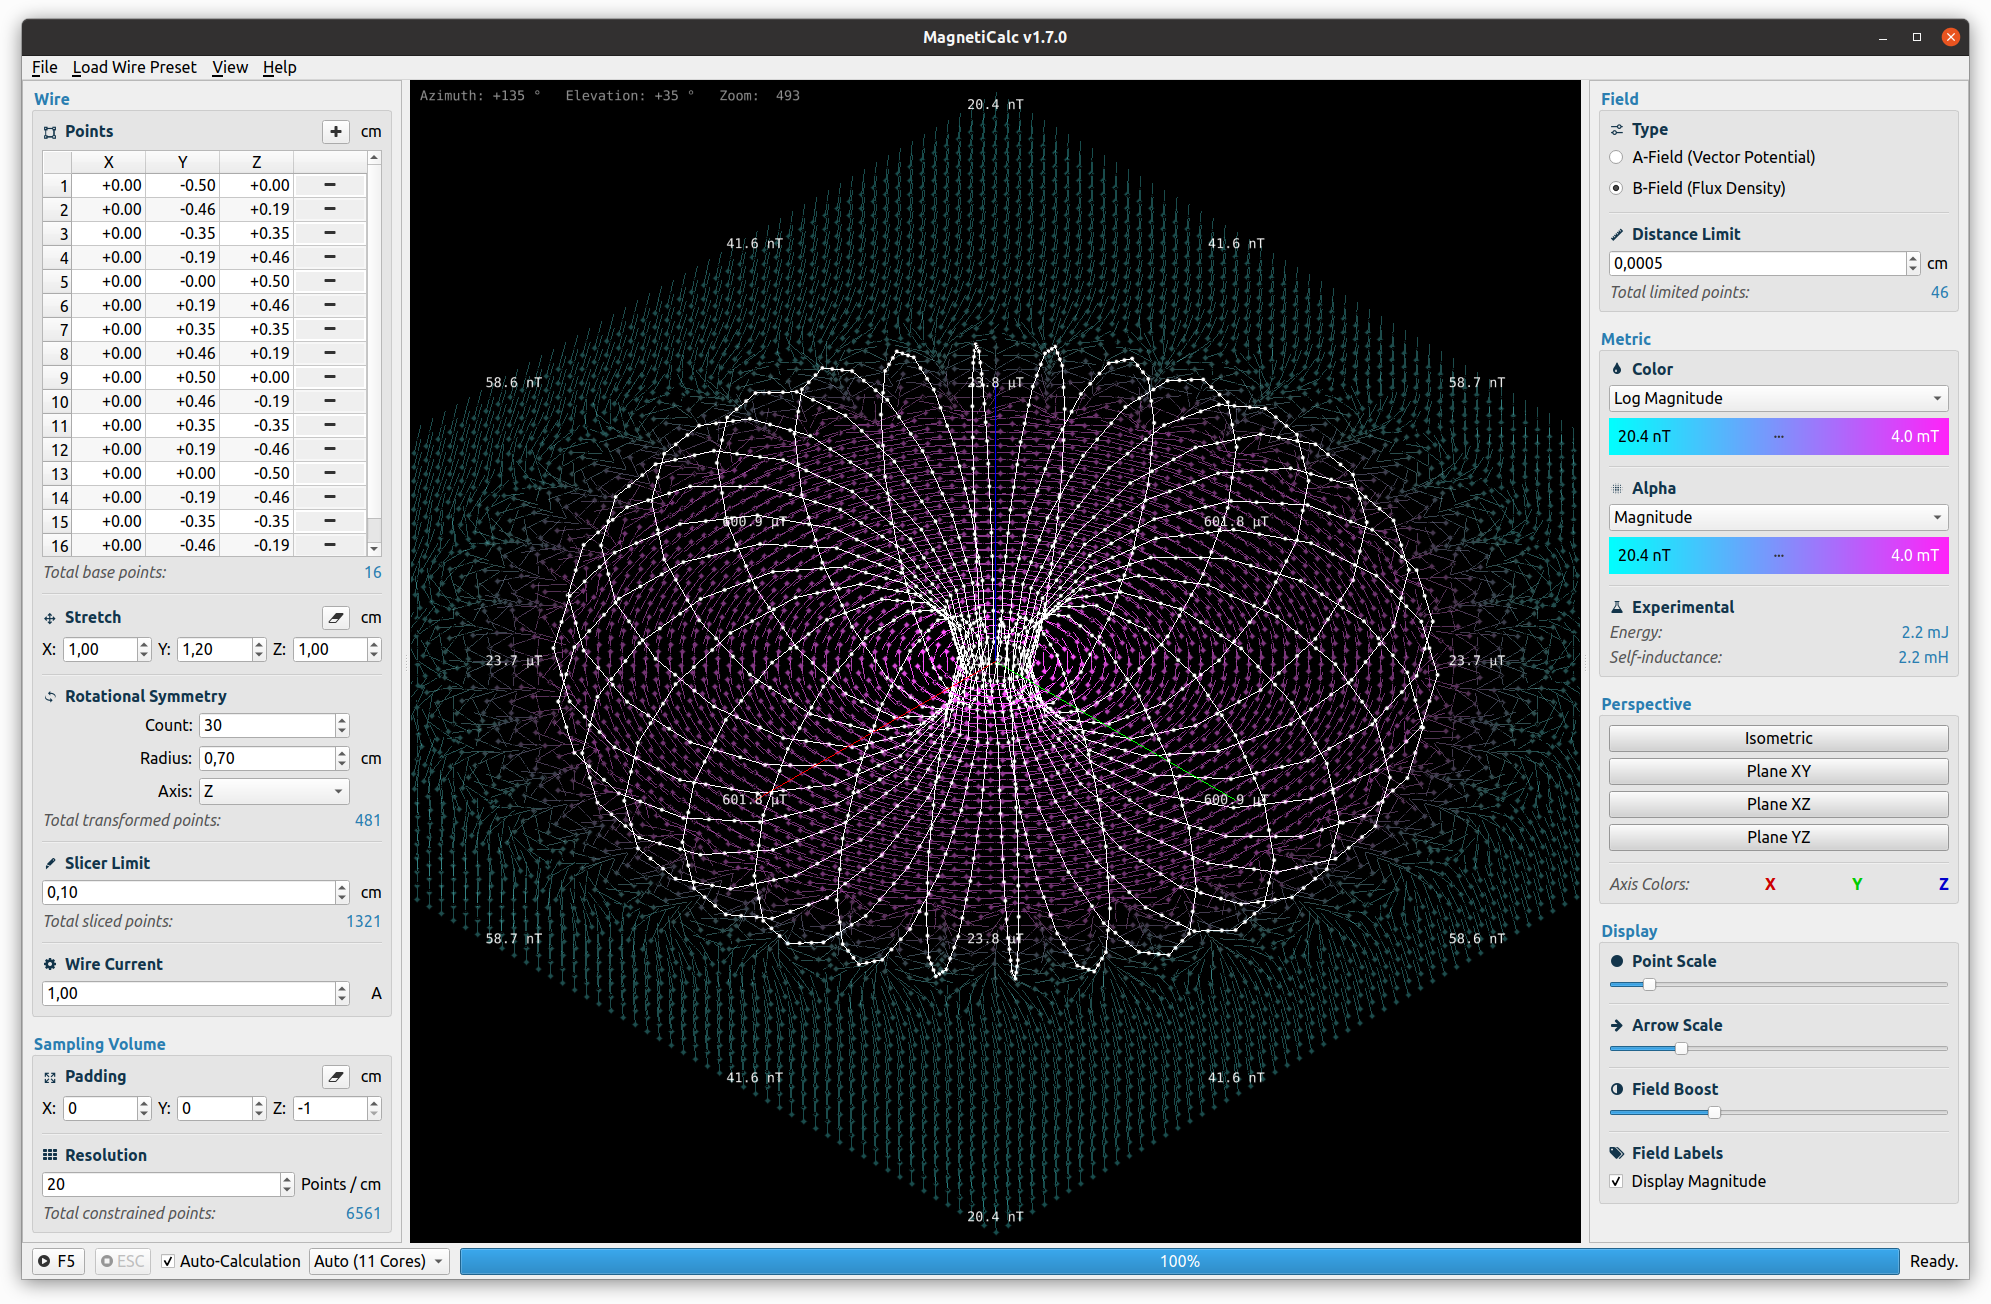
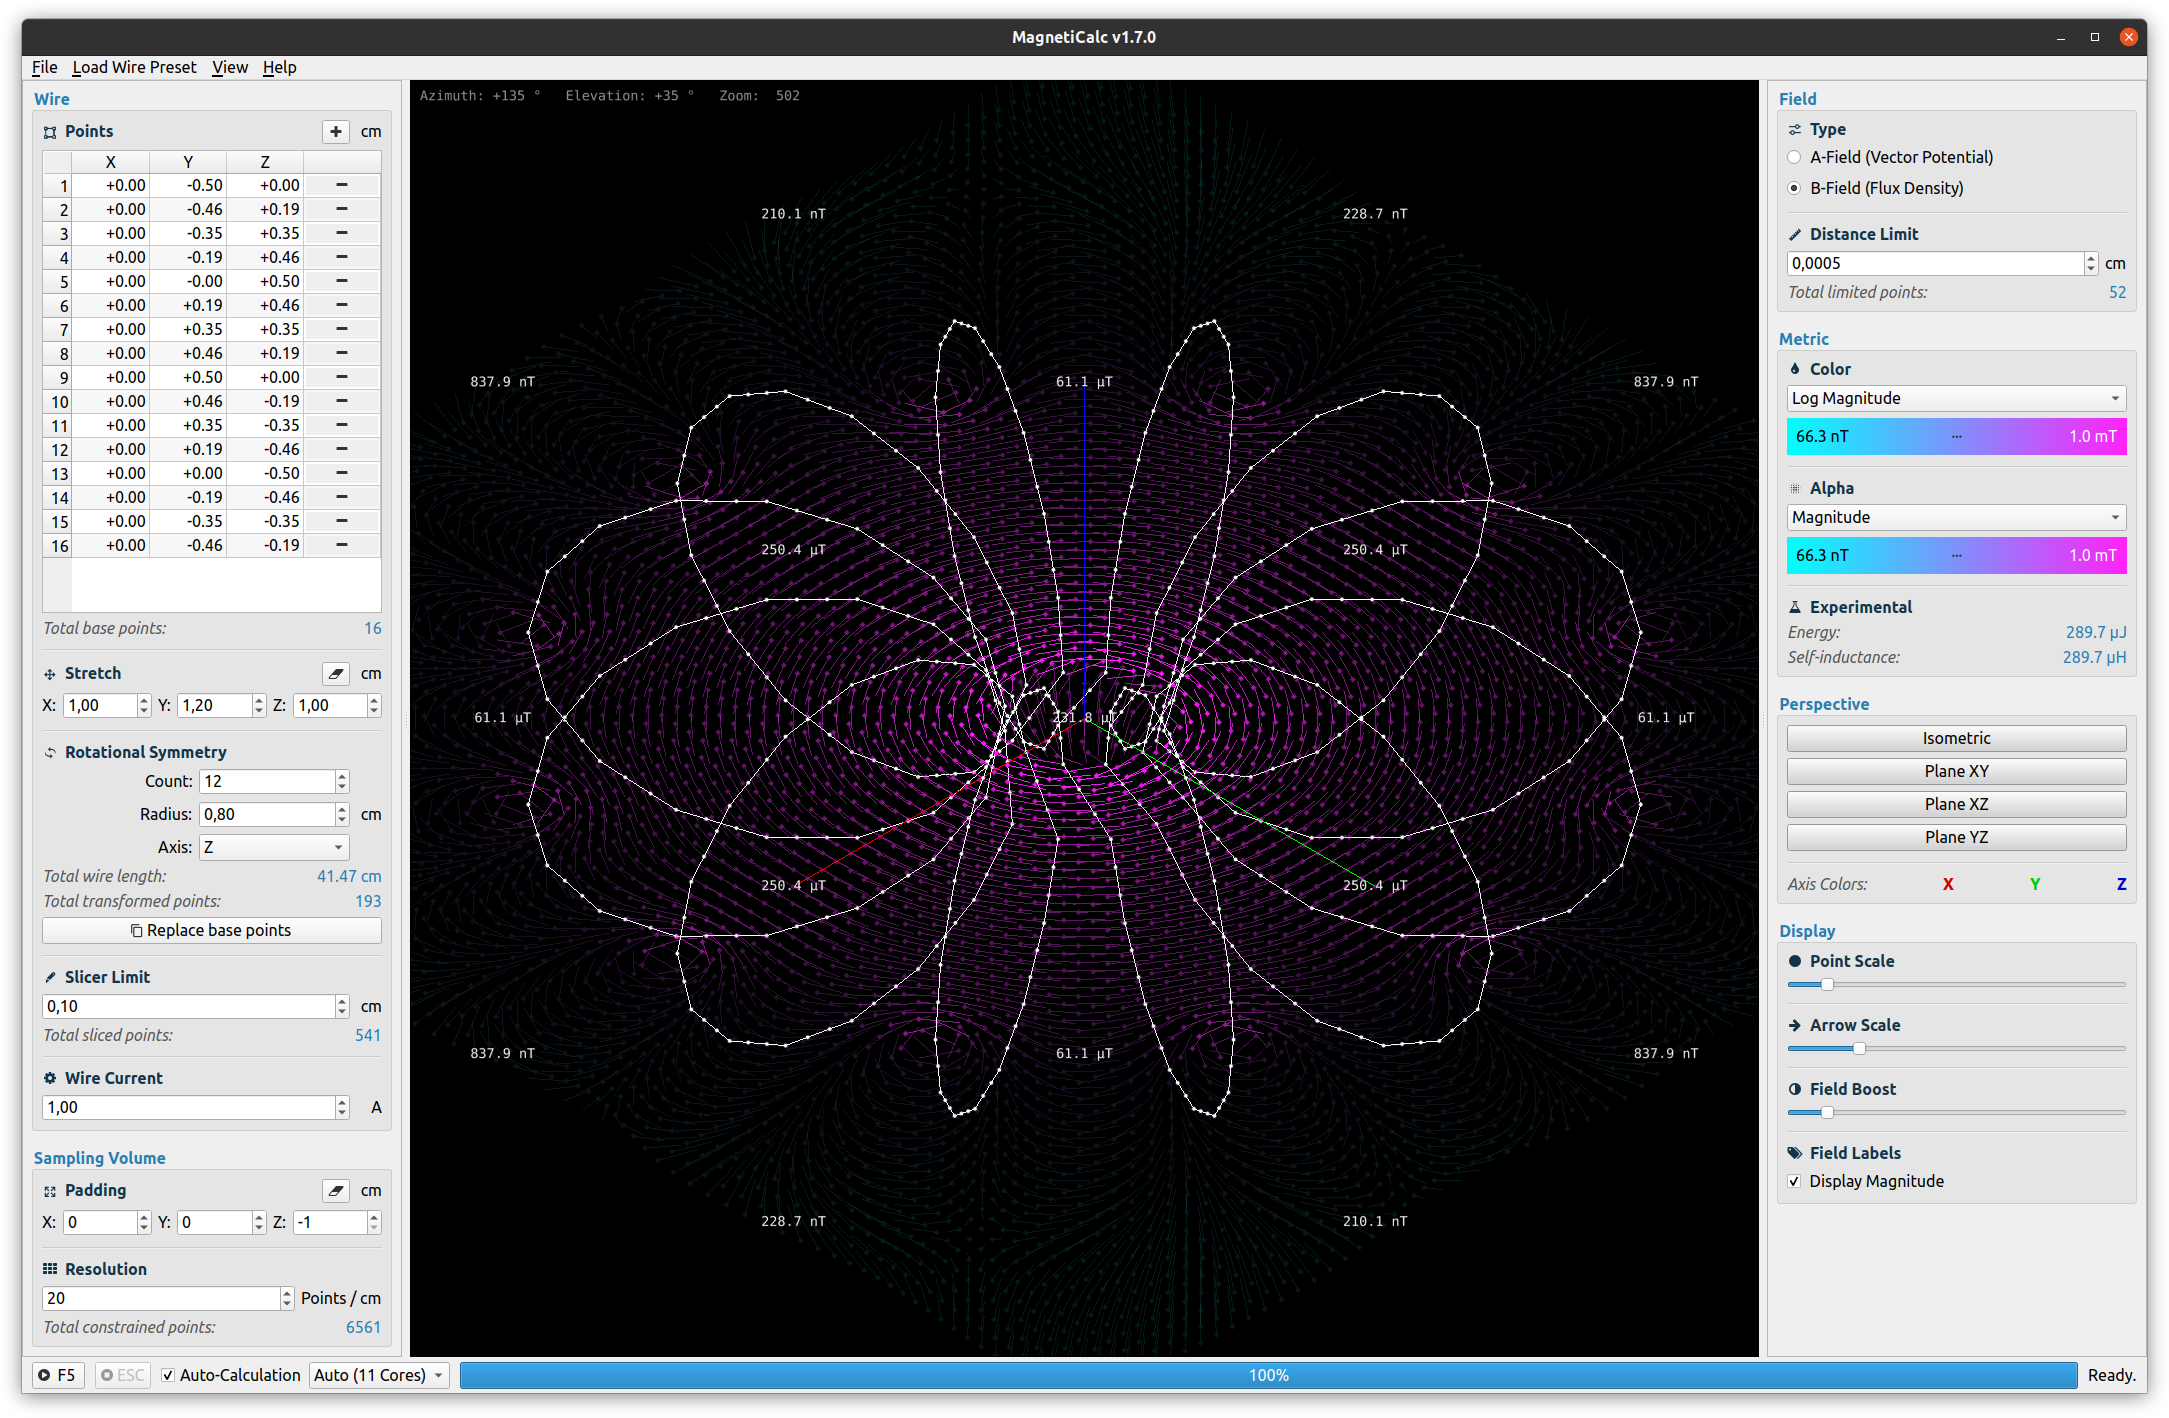
Added wire length. Added option to Replace base points.

Changed region(s): [[0.0, 0.0, 0.9965, 0.9816]]

diff --git a/magneticalc/Wire_Widget.py b/magneticalc/Wire_Widget.py
@@ -193,6 +193,24 @@ class Wire_Widget(Groupbox):
 
         self.addLayout(rotational_symmetry_layout)
 
+        total_length_layout = QHBoxLayout()
+        total_length_label_left = QLabel("Total wire length:")
+        total_length_label_left.setStyleSheet("""
+            color: #555555;
+            font-style: italic;
+        """)
+        self.total_length_label = QLabel("")
+        self.total_length_label.setStyleSheet("""
+            color: #2a7db0;
+        """)
+        self.total_length_label.setAlignment(Qt.AlignRight | Qt.AlignVCenter)
+        total_length_layout.addWidget(
+            total_length_label_left,
+            alignment=Qt.AlignVCenter
+        )
+        total_length_layout.addWidget(self.total_length_label, alignment=Qt.AlignVCenter)
+        self.addLayout(total_length_layout)
+
         rotational_symmetry_total_layout = QHBoxLayout()
         rotational_symmetry_total_label_left = QLabel("Total transformed points:")
         rotational_symmetry_total_label_left.setStyleSheet("""
@@ -210,6 +228,14 @@ class Wire_Widget(Groupbox):
         )
         rotational_symmetry_total_layout.addWidget(self.transformed_total_label, alignment=Qt.AlignVCenter)
         self.addLayout(rotational_symmetry_total_layout)
+
+        replace_base_points_button = QPushButton()
+        replace_base_points_button.setIcon(qta.icon("mdi.content-copy"))
+        replace_base_points_button.setText("Replace base points")
+        replace_base_points_button.clicked.connect(
+            lambda: self.set_wire(points=self.gui.model.wire.get_points_transformed())
+        )
+        self.addWidget(replace_base_points_button)
 
         # --------------------------------------------------------------------------------------------------------------
 
@@ -414,5 +440,7 @@ class Wire_Widget(Groupbox):
         """
         if self.gui.model.wire.is_valid():
             self.sliced_total_label.setText(str(len(self.gui.model.wire.get_points_sliced())))
+            self.total_length_label.setText(f"{self.gui.model.wire.get_length():.2f} cm")
         else:
             self.sliced_total_label.setText("N/A")
+            self.total_length_label.setText("N/A")

diff --git a/magneticalc/Wire.py b/magneticalc/Wire.py
@@ -228,8 +228,8 @@ class Wire:
         self._points_base = np.array(points)
 
         # Note: This is my playground for creating new wire presets!
-        x = False
-        if x:
+        override_base = False
+        if override_base:
             self._points_base = np.array(
                 [
                     [
@@ -253,6 +253,7 @@ class Wire:
         self._dc = dc
 
         self._points_sliced = None
+        self._length = None
 
         self._points_transformed = self._points_base.copy()
 
@@ -276,6 +277,7 @@ class Wire:
         Debug(self, ".invalidate()", color=(128, 0, 0))
 
         self._points_sliced = None
+        self._length = None
 
     # ------------------------------------------------------------------------------------------------------------------
 
@@ -338,6 +340,14 @@ class Wire:
         @return: DC value
         """
         return self._dc
+
+    def get_length(self):
+        """
+        Returns this curve's length.
+
+        @return: Length (float)
+        """
+        return self._length
 
     # ------------------------------------------------------------------------------------------------------------------
 
@@ -403,12 +413,14 @@ class Wire:
         Debug(self, ".recalculate()", color=(0, 128, 0))
 
         points_sliced = []
+        length = 0
 
         for i in range(len(self.get_points_transformed()) - 1):
 
             # Calculate direction and length of wire segment
             segment_direction = np.array(self.get_points_transformed()[i + 1] - self.get_points_transformed()[i])
             segment_length = np.linalg.norm(segment_direction)
+            length += segment_length
 
             # Calculate required number of slices (subdivisions) and perform linear interpolation
             slices = np.ceil(segment_length / self._slicer_limit).astype(int)
@@ -427,5 +439,6 @@ class Wire:
         points_sliced.append(self.get_points_transformed()[-1])
 
         self._points_sliced = np.array(points_sliced)
+        self._length = length
 
         return True

diff --git a/magneticalc/Usage_Dialog.py b/magneticalc/Usage_Dialog.py
@@ -114,13 +114,14 @@ class Usage_Dialog(QDialog):
 
         The shape of any wire is modeled as a 3D piecewise linear curve.
         Arbitrary loops of wire are sliced into differential current elements, each of which
-        contributes to the total field magnitude at some fixed 3D grid point.<br><br>
+        contributes to the total field magnitude at some fixed 3D grid point,
+        summing over the positions of all current elements.<br><br>
 
         At each grid point, the field is displayed using colored arrows and/or dots;
         field color and alpha transparency are individually mapped using one of the various available metrics.<br><br>
 
         As an experimental feature, the coil's energy [2] and self-inductance [3]
-        are calculated by integrating the squared <b>B</b>-field over the entire sampling volume.
+        are calculated by summing the squared <b>B</b>-field over the entire sampling volume.
         However, these values are currently not reliable, varying strongly with the other parameters;
         essentially, the sampling volume must enclose a large, non-singular portion of the field.
         <br><br>

diff --git a/setup.py b/setup.py
@@ -28,11 +28,10 @@ setup(
     name="MagnetiCalc",
     version=version["__VERSION__"],
     description="""MagnetiCalc calculates the magnetic field of arbitrary coils in vacuum, examples included.
-Inside a VisPy/OpenGL-accelerated PyQt5 GUI, the static magnetic flux density (B-field due to DC currents) is displayed
-in interactive 3D, using multiple metrics for highlighting this field's properties.
+Inside a VisPy/OpenGL-accelerated PyQt5 GUI, the static magnetic flux density (B-field due to DC currents)
+is displayed in interactive 3D, using multiple metrics for highlighting this field's properties.
 Alternatively, the magnetic vector potential (A-field) may be displayed.
-All parameters and presets can interactively be changed inside the GUI.
-There is also an experimental feature to calculate the coil's energy and self-inductance.""",
+All parameters and presets can interactively be changed inside the GUI.""".replace("\n", " "),
     url="https://github.com/shredEngineer/MagnetiCalc",
     author="Paul Wilhelm",
     author_email="anfrage@paulwilhelm.de",

diff --git a/README.md b/README.md
@@ -41,12 +41,12 @@ each of which contributes to the total resulting field
 (<img src="https://render.githubusercontent.com/render/math?math=\mathbf{A}" alt="A">,
 <img src="https://render.githubusercontent.com/render/math?math=\mathbf{B}" alt="B">)
 at some fixed 3D grid point (<img src="https://render.githubusercontent.com/render/math?math=\mathbf{x}" alt="x">),
-integrating over the positions of all current elements
+summing over the positions of all current elements
 (<img src="https://render.githubusercontent.com/render/math?math=\mathbf{x^'}" alt="x'">):
 
-<img src="https://render.githubusercontent.com/render/math?math=\mathbf{A}(\mathbf{x})=I \cdot \frac{\mu_0}{4 \pi} \cdot \displaystyle \int \frac{\mathbf{\ell}(\mathbf{x^')}}{|\mathbf{x} - \mathbf{x^'}|} \,d\mathbf{x^'}"><br>
+<img src="https://render.githubusercontent.com/render/math?math=\mathbf{A}(\mathbf{x})=I \cdot \frac{\mu_0}{4 \pi} \cdot \displaystyle \sum_\mathbf{x^'} \frac{\mathbf{\ell}(\mathbf{x^')}}{\mid \mathbf{x} - \mathbf{x^'} \mid}"><br>
 
-<img src="https://render.githubusercontent.com/render/math?math=\mathbf{B}(\mathbf{x})=I \cdot \frac{\mu_0}{4 \pi} \cdot \displaystyle \int \frac{\mathbf{\ell}(\mathbf{x^'}) \times (\mathbf{x} - \mathbf{x^'})}{|\mathbf{x} - \mathbf{x^'}|} \,d\mathbf{x^'}"><br>
+<img src="https://render.githubusercontent.com/render/math?math=\mathbf{B}(\mathbf{x})=I \cdot \frac{\mu_0}{4 \pi} \cdot \displaystyle \sum_\mathbf{x^'} \frac{\mathbf{\ell}(\mathbf{x^'}) \times (\mathbf{x} - \mathbf{x^'})}{\mid \mathbf{x} - \mathbf{x^'} \mid}"><br>
 
 At each grid point, the field magnitude (or field angle in some plane) is displayed using colored arrows and/or dots;
 field color and alpha transparency are individually mapped using one of the various available metrics:
@@ -54,26 +54,27 @@ field color and alpha transparency are individually mapped using one of the vari
 | Metric               | Symbol                                                                                       | Description                         |
 |----------------------|----------------------------------------------------------------------------------------------|-------------------------------------|
 | ``Magnitude``        | <img src="https://render.githubusercontent.com/render/math?math=\mid\vec{B}\mid">            | Magnitude in space                  |
-| ``Magnitude XY``     | <img src="https://render.githubusercontent.com/render/math?math=\mid\vec{B_{XY}}\mid">       | Magnitude in XY-plane               |
-| ``Magnitude XZ``     | <img src="https://render.githubusercontent.com/render/math?math=\mid\vec{B_{XZ}}\mid">       | Magnitude in XZ-plane               |
-| ``Magnitude YZ``     | <img src="https://render.githubusercontent.com/render/math?math=\mid\vec{B_{YZ}}\mid">       | Magnitude in YZ-plane               |
+| ``Magnitude XY``     | <img src="https://render.githubusercontent.com/render/math?math=\mid\vec{B}_{XY}\mid">       | Magnitude in XY-plane               |
+| ``Magnitude XZ``     | <img src="https://render.githubusercontent.com/render/math?math=\mid\vec{B}_{XZ}\mid">       | Magnitude in XZ-plane               |
+| ``Magnitude YZ``     | <img src="https://render.githubusercontent.com/render/math?math=\mid\vec{B}_{YZ}\mid">       | Magnitude in YZ-plane               |
 | ``Log Magnitude``    | <img src="https://render.githubusercontent.com/render/math?math=ln \mid\vec{B}\mid">         | Logarithmic Magnitude in space      |
-| ``Log Magnitude XY`` | <img src="https://render.githubusercontent.com/render/math?math=ln \mid\vec{B_{XY}}\mid">    | Logarithmic Magnitude in XY-plane   |
-| ``Log Magnitude XZ`` | <img src="https://render.githubusercontent.com/render/math?math=ln \mid\vec{B_{XZ}}\mid">    | Logarithmic Magnitude in XZ-plane   |
-| ``Log Magnitude YZ`` | <img src="https://render.githubusercontent.com/render/math?math=ln \mid\vec{B_{YZ}}\mid">    | Logarithmic Magnitude in YZ-plane   |
-| ``AngleXY``          | <img src="https://render.githubusercontent.com/render/math?math=\measuredangle\vec{B_{XY}}"> | Field angle in XY-plane             |
-| ``AngleXZ``          | <img src="https://render.githubusercontent.com/render/math?math=\measuredangle\vec{B_{XZ}}"> | Field angle in XZ-plane             |
-| ``AngleYZ``          | <img src="https://render.githubusercontent.com/render/math?math=\measuredangle\vec{B_{YZ}}"> | Field angle in YZ-plane             |
+| ``Log Magnitude XY`` | <img src="https://render.githubusercontent.com/render/math?math=ln \mid\vec{B}_{XY}\mid">    | Logarithmic Magnitude in XY-plane   |
+| ``Log Magnitude XZ`` | <img src="https://render.githubusercontent.com/render/math?math=ln \mid\vec{B}_{XZ}\mid">    | Logarithmic Magnitude in XZ-plane   |
+| ``Log Magnitude YZ`` | <img src="https://render.githubusercontent.com/render/math?math=ln \mid\vec{B}_{YZ}\mid">    | Logarithmic Magnitude in YZ-plane   |
+| ``Angle XY``          | <img src="https://render.githubusercontent.com/render/math?math=\measuredangle\vec{B}_{XY}"> | Field angle in XY-plane             |
+| ``Angle XZ``          | <img src="https://render.githubusercontent.com/render/math?math=\measuredangle\vec{B}_{XZ}"> | Field angle in XZ-plane             |
+| ``Angle YZ``          | <img src="https://render.githubusercontent.com/render/math?math=\measuredangle\vec{B}_{YZ}"> | Field angle in YZ-plane             |
 
 As an experimental feature,
 the coil's energy <img src="https://render.githubusercontent.com/render/math?math=E" alt="E"> [2]
 and self-inductance <img src="https://render.githubusercontent.com/render/math?math=L" alt="L"> [3]
-are calculated by integrating the squared
-<img src="https://render.githubusercontent.com/render/math?math=\mathbf{B}" alt="B">-field over the entire sampling volume.
+are calculated by summing the squared
+<img src="https://render.githubusercontent.com/render/math?math=\mathbf{B}" alt="B">-field
+over the entire sampling volume.
 However, these values are currently not reliable, varying strongly with the other parameters;
 essentially, the sampling volume must enclose a large, non-singular portion of the field.
 
-<img src="https://render.githubusercontent.com/render/math?math=E=\frac{1}{\mu_0} \cdot \displaystyle \int \mathbf{B} \cdot \mathbf{B} \,d\mathbf{x^'}"><br>
+<img src="https://render.githubusercontent.com/render/math?math=E=\frac{1}{\mu_0} \cdot \displaystyle \sum_\mathbf{x} \mathbf{B}(\mathbf{x}) \cdot \mathbf{B}(\mathbf{x})"><br>
 
 <img src="https://render.githubusercontent.com/render/math?math=L=\frac{1}{\I^2} \cdot E"><br>
 
@@ -120,7 +121,7 @@ python3 -m magneticalc
 This will automatically install all dependency packages.
 
 **Note:** From within a *Jupyter Notebook*, MagnetiCalc may be installed and run like this:
-```shell
+```python
 import sys
 !{sys.executable} -m pip install magneticalc
 !{sys.executable} -m magneticalc
@@ -154,7 +155,7 @@ ToDo
 * Add support for adding, editing and removing sampling volume constraints;
   the SamplingVolume module already supports constraints, but the GUI currently doesn't.
   This will also require changes to the way the field labels are currently distributed (relying on a *complete* grid).
-* Add support for selective display over a portion of the metric range, in order to get a kind of iso-contour display. 
+* Add support for selective display over a portion of the metric range, in order to get a kind of iso-contour display.
 * Add support for different media with arbitrary geometry and permeability.
 * Add support for multiple wires, study mutual induction.
 * Move the field and metric calculations directly to the OpenGL shader engines,
